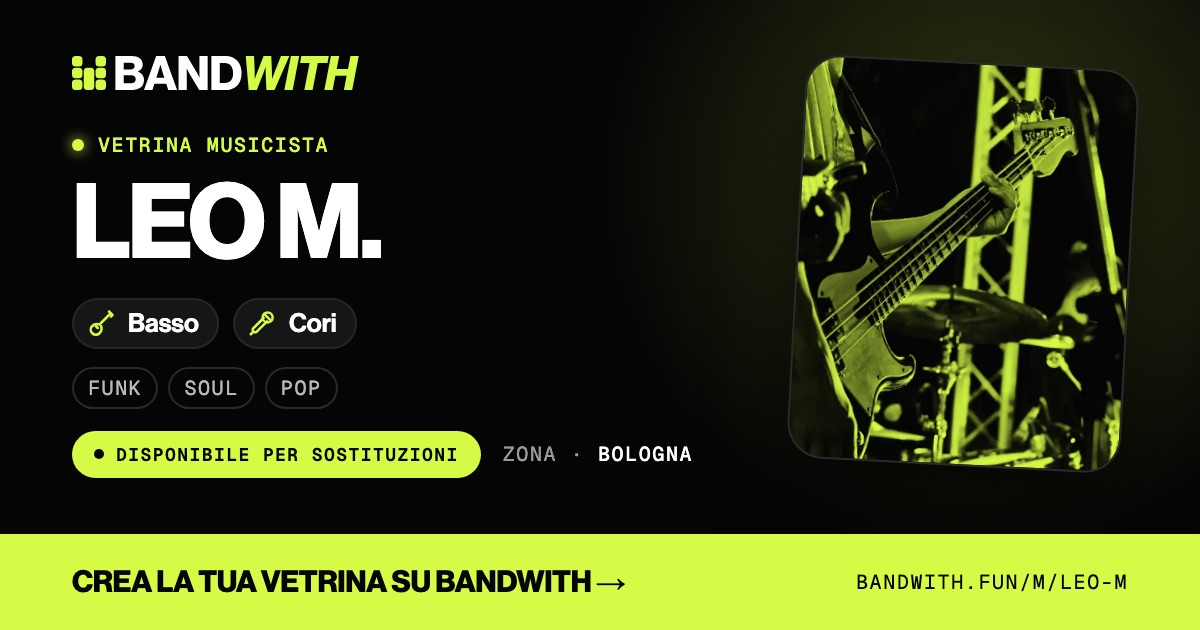
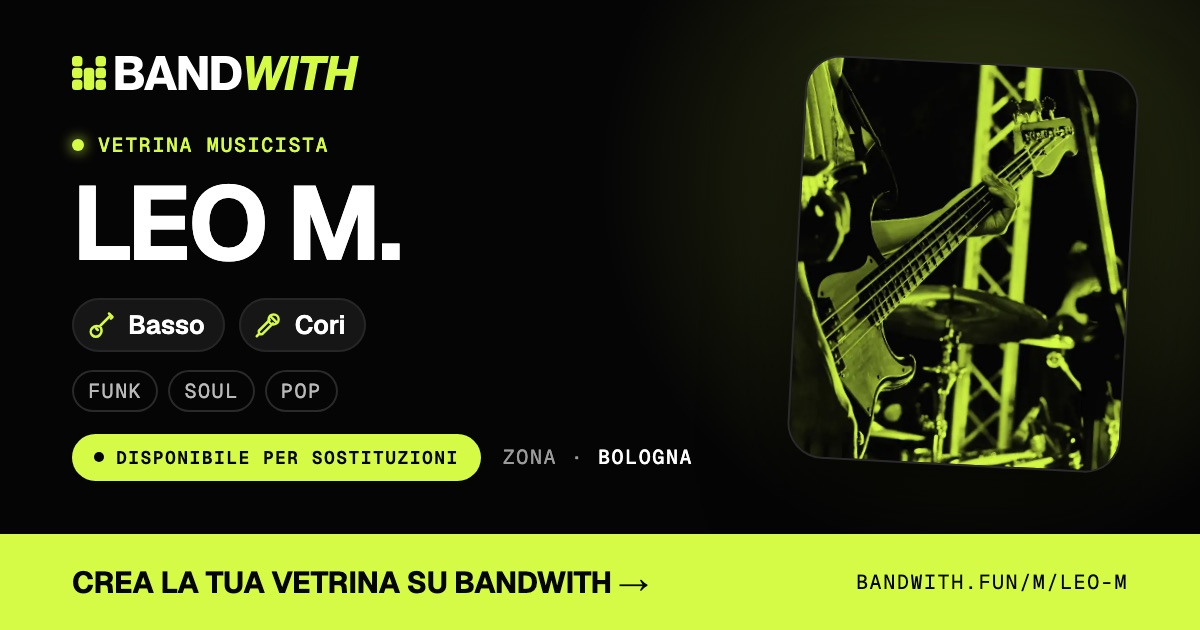
docs(plans): community share cards use Geist (owner decision), mockups re-rendered

diff --git a/docs/plans/community.md b/docs/plans/community.md
@@ -61,6 +61,7 @@ Contents
 | 9 | Direct deputy invite | "l'invito diretto ad un deputy rimane lo stesso, vero?" | **Yes, unchanged** (§4.4). |
 | 10 | Bands looking for a new member | "se volessi (come band) cercare in questa community anche un nuovo membro … pure dovrebbe esserci" | **Yes**: ads and search cover **permanent / deputy / both** (§4.2, §4.5). |
 | 11 | Branded sharing | "possiamo creare un design branded di bandwith customizzato (tipo social thumbnail picture per i link dei siti web) cosi da spingere il brand e renderlo riconoscibile?" | **Yes**: dynamic BandWith share cards for showcases and ads, link previews + Story/square images (§8). |
+| 12 | Card font (2026-11-21) | "ok usa Geist per le card dinamiche" | Geist + Geist Mono for all community cards (§8.5). |
 
 ## 3. What exists today (the plan builds on it)
 
@@ -292,7 +293,7 @@ Every shared link is an ad for BandWith. The card is what people see in WhatsApp
 
 ### 8.1 Mockups
 
-These use fake demo data: the site's persona Leo M. and the demo band Velvet Static. They are rendered with the #248 share-card style.
+These use fake demo data: the site's persona Leo M. and the demo band Velvet Static. They are rendered with the #248 share-card style, in Geist as decided (§8.5).
 
 | Musician showcase, link preview 1200×630 | Band ad, link preview 1200×630 |
 |---|---|
@@ -367,15 +368,12 @@ Showcase as a Story, 1080×1920: [`community/03-vetrina-story-1080x1920.jpg`](co
   - The card follows the page language: `/m/leo-m`, `/it/m/leo-m`, `/es/m/leo-m`.
   - When shared from the app, it follows the app language, mapped to EN/IT/ES for the site. Other app languages fall back to EN until the site has them.
   - Instruments and genres come from the same dictionaries as the app and the site (`instruments.ts` labels, the site's `dict/*.json`).
-- **Fonts:**
-  - The #248 cards render the display face (`neue-haas-grotesk-display`) through Adobe Fonts in a browser at build time.
-  - **An on-demand server renderer needs the font files themselves**, and the Adobe Fonts licence does not let us put those files on a server.
-  - So the dynamic cards use **open-licensed fonts**:
-    - Geist Mono (OFL, already self-hosted on the site) for the mono labels;
-    - a close OFL grotesk for the big uppercase lines, for example Geist Sans Bold or Inter Tight Bold.
+- **Fonts (decided by the owner on 2026-11-21: Geist):**
+  - The #248 cards render the display face (`neue-haas-grotesk-display`) through Adobe Fonts in a browser at build time. An on-demand server renderer needs the font files themselves, and the Adobe Fonts licence does not let us put those files on a server.
+  - So the community cards use **Geist** (OFL, by Vercel): Geist Bold / SemiBold for the big uppercase lines and chips, and **Geist Mono** for the labels, the pill and the URL. Geist Mono is already self-hosted on the site.
+  - The font files (`.ttf` / `.woff`, since Satori does not read `.woff2`) are bundled with the function.
+  - The community's static fallbacks use Geist too, so every community card looks the same. The site's page cards from #248 stay as they are.
   - The logo is an SVG, so it is unaffected.
-  - The static fallbacks can keep the exact display face.
-  - To confirm when building: whether the difference is visible at card size (see §16).
 - **Images:**
   - Satori takes PNG/JPEG/SVG, not WebP, so the photo is fetched as JPEG.
   - The lime duotone is applied once, when the photo is chosen for the showcase (a small image stored next to the avatar), not by a CSS filter at render time. Satori has no filters.
@@ -594,7 +592,6 @@ The data is aggregated, from database queries and the existing opt-in GA4 events
 - The inactivity period before a showcase hides, the request expiry, the cooling-off period after a decline, and the daily limits. These are product values, to set in the database at build time.
 - Whether the fee is shown in a community deputy request, or only after the musician accepts.
 - Which of the existing languages the public site pages need beyond EN/IT/ES.
-- The share card's display font: an open grotesk for on-demand rendering instead of the Adobe Fonts face. Check it side by side with the #248 cards at card size (§8.5).
 - Whether "Download image" adds a small QR code to the Story and square images, for people who see them without a tappable link.
 
 ## 17. Competitors checked
